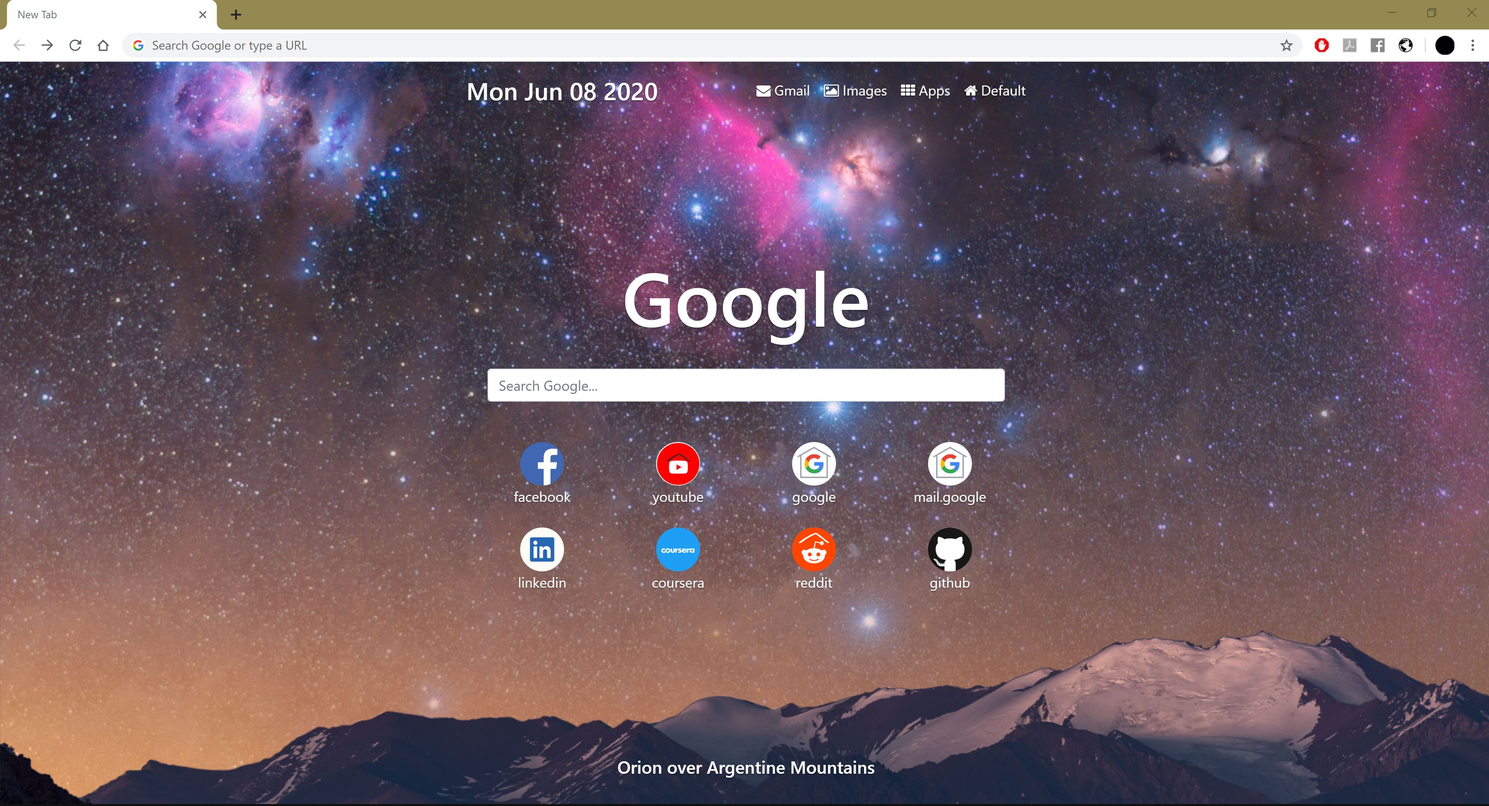
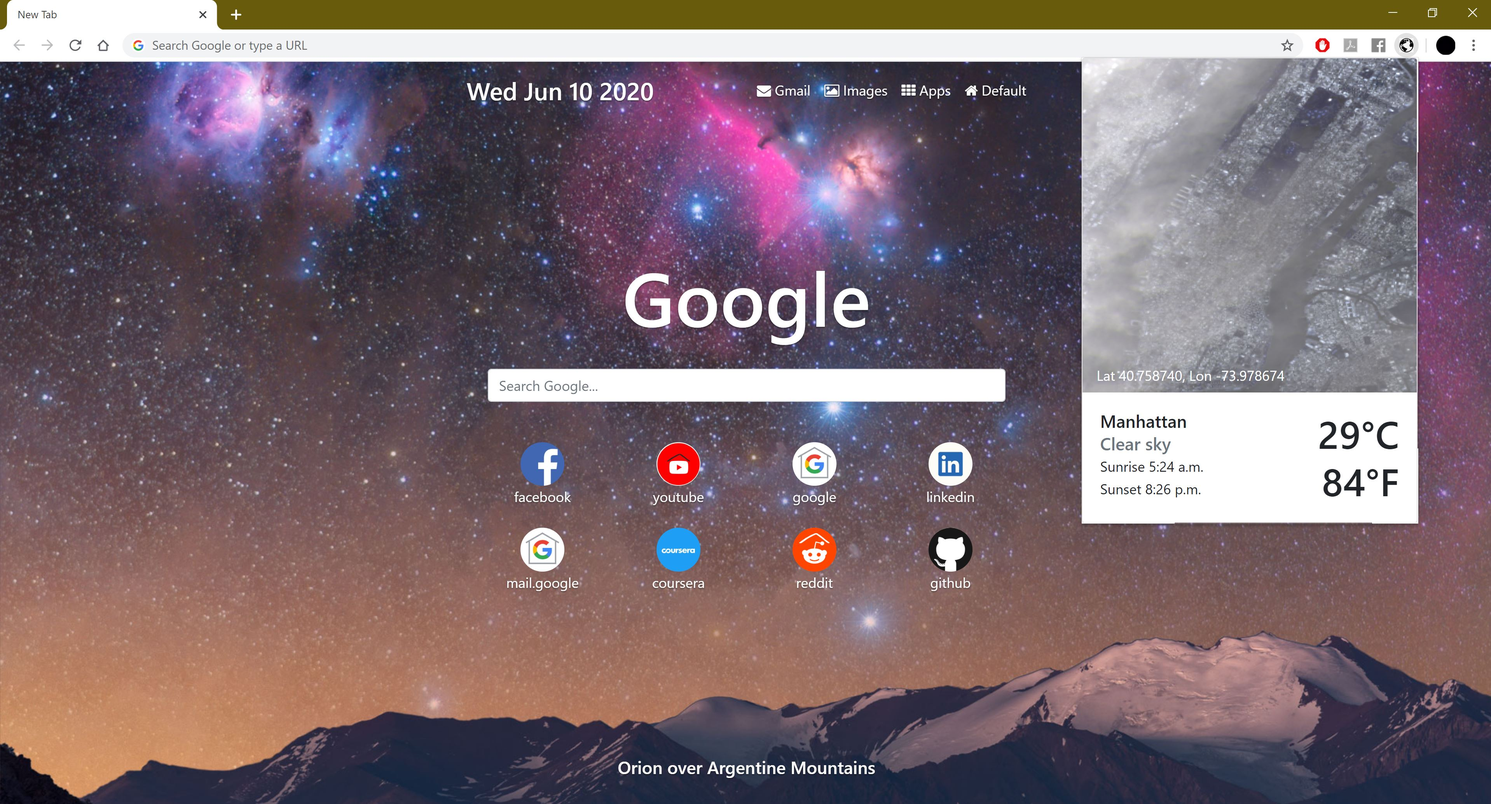
done

diff --git a/src/popup.js b/src/popup.js
@@ -14,15 +14,22 @@ function getDateString(unixTime) {
 function showMap(position) {
     lat = position.coords.latitude
     lon = position.coords.longitude
-    
-    apikey = 'iJqafJbROElNaKRqqk24Ot5eN6WTYCqYFdteeYz5'
-    document.getElementById('geoLocation').innerText = "(Lat " + lat.toFixed(6) +", Lon " + lon.toFixed(6) + ")"
-    document.getElementById('geoImage').src = 'https://api.nasa.gov/planetary/earth/imagery?lon=' + lon + '&lat=' + lat + '&dim=0.1&api_key=' + apikey
-    
+    setImage(lat, lon)
+    setData(lat, lon)  
+}
+
+function setData() {
     apikey = '3e7cd6048bd8114abedeee14fcc11575'
     fetch('https://api.openweathermap.org/data/2.5/weather?lat=' + lat + '&lon=' + lon + '&appid=' + apikey)
         .then(response => response.json())
         .then(data => getData(data));
+}
+
+function setImage() {
+    apikey = 'iJqafJbROElNaKRqqk24Ot5eN6WTYCqYFdteeYz5'
+    document.getElementById('geoLocation').innerText = "Lat " + lat.toFixed(6) +", Lon " + lon.toFixed(6)
+    document.getElementById('geoImage').src = 'https://api.nasa.gov/planetary/earth/imagery?lon=' + lon + '&lat=' + lat + '&dim=0.1&api_key=' + apikey
+    
 }
 
 function getData(data) {

diff --git a/src/setimage.js b/src/setimage.js
@@ -1,4 +1,5 @@
-imgUrl = 'https://api.nasa.gov/planetary/apod?api_key=iJqafJbROElNaKRqqk24Ot5eN6WTYCqYFdteeYz5'
+var imgUrl = 'https://api.nasa.gov/planetary/apod?api_key=iJqafJbROElNaKRqqk24Ot5eN6WTYCqYFdteeYz5'
+
 fetch(imgUrl)
     .then(response => response.json())
     .then(data => addBackGround(data));
@@ -8,7 +9,11 @@ function addBackGround(data) {
     title = data['title']
     date = new Date();
     document.getElementById('date').innerText = date.toDateString()
-    document.getElementById('title').innerText = title
-    document.body.style.backgroundImage = "url('" + imgUrl + "')"
+    if (data["media_type"] == "image") {
+        document.getElementById('title').innerText = title
+        document.body.style.backgroundImage = "url('" + imgUrl + "')"
+    } else {
+        document.getElementById('imagelink').href = "https://apod.nasa.gov/apod/ap200606.html"
+        document.body.style.backgroundImage = "url('img//misc/CometPanSTARRsandtheGalaxies.jpg')"
+    }
 }
-

diff --git a/popup.html b/popup.html
@@ -12,8 +12,12 @@
 
 <body>
     <div class="card" style="width: 24rem;">
-        <div class="container" style="padding: 0px; position: relative; text-align: center; color: #fff; background-color: black;">
+        <div class="container"
+            style="padding: 0px; position: relative; text-align: center; color: #fff; background-color: black;">
+            
             <img id="geoImage" class="card-img-top" src="img/misc/earthspinning.gif" alt="Location">
+            <script async defer src="https://maps.googleapis.com/maps/api/js?key=YOUR_API_KEY&callback=initMap"
+                type="text/javascript"></script>
             <div id="geoLocation" style="position: absolute; bottom: 8px; left: 16px;">Loading</div>
         </div>
         <div class="card-body">

diff --git a/newTab.html b/newTab.html
@@ -120,9 +120,9 @@
 
         <footer class="mastfoot mt-auto mb-2">
             <div class="inner text-center">
-                <a style="text-decoration: none;" href="https://apod.nasa.gov/apod/astropix.html">
+                <a id="imagelink" style="text-decoration: none;" href="https://apod.nasa.gov/apod/astropix.html">
                     <h5 id='title' class="text-center" data-toggle="tooltip"
-                        title="Click here for more information about current image and past images.">Loading</h5>
+                        title="Click here for more information about current image and past images.">Comet PanSTARRs and the Galaxies</h5>
                 </a>
             </div>
         </footer>

diff --git a/README.md b/README.md
@@ -24,3 +24,11 @@ Api’s:
 - Logo: clearbit
 - Background Image: NASA APOD
 - Geopin Location Image: NASA Earth Api
+
+## Sample UI
+
+### New tab with popup open
+![Image1](img/AppExample/sample1.JPG)
+
+### New tab different date
+![Image2](img/AppExample/sample2.JPG)
